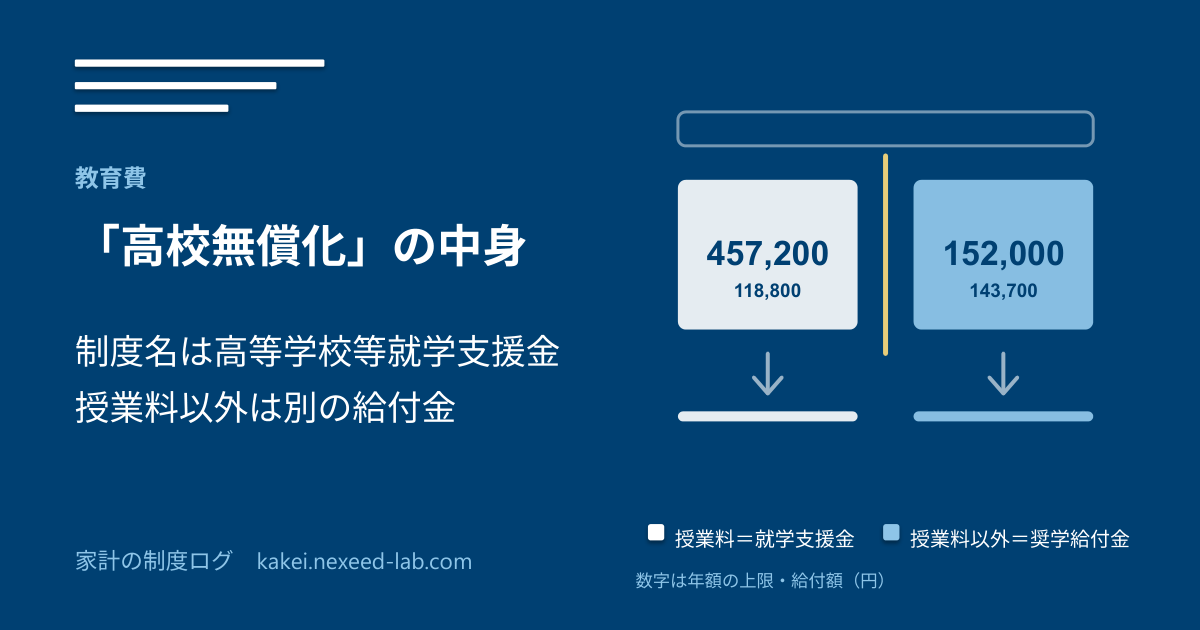
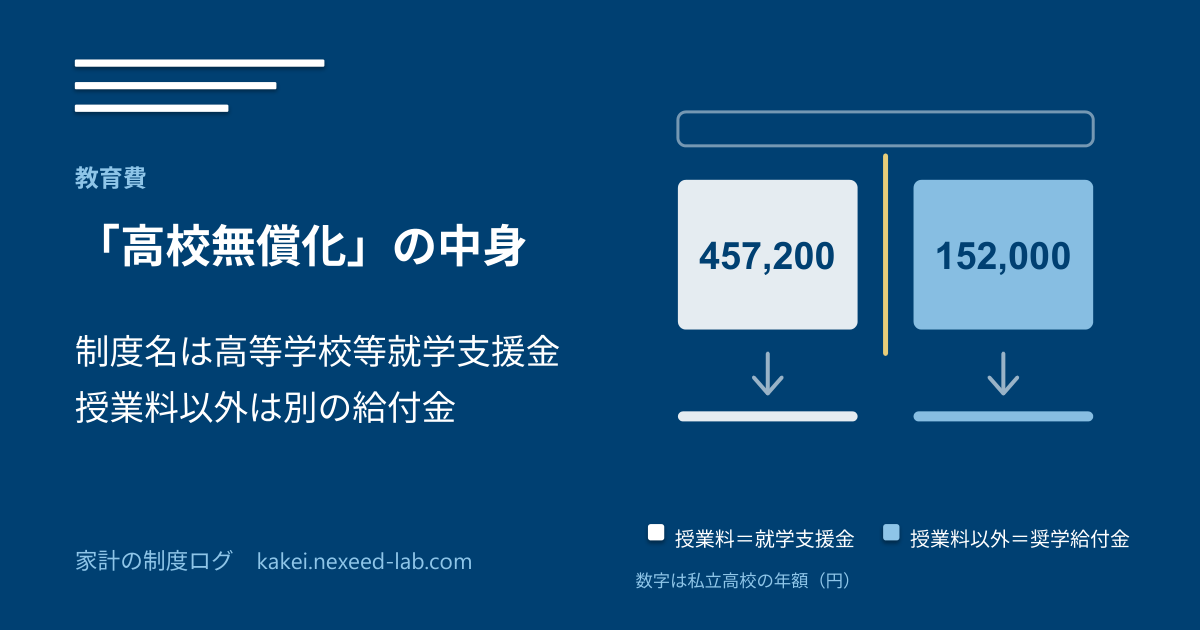
画像の数字を1つずつにした（何の数字か分からない指摘への対応）
- 高校無償化: 箱に私立と公立を上下に並べていたのを私立だけに。注記も「私立高校の年額」へ
- ふるさと納税: 容器の底の「2,000」を外した（図だけでは意味が伝わらないため）
- CLAUDE.md に「1つの図形に数字は1つ」「説明できない数字は図から外す」を追記
- 本番へデプロイし、4枚のPNGが手元とバイト数一致することを確認

Changed region(s): [[0.7708, 0.3619, 0.8942, 0.4825], [0.5858, 0.3619, 0.7092, 0.4825], [0.555, 0.9048, 0.74, 0.9349]]

diff --git a/tools/article-images/build.py b/tools/article-images/build.py
@@ -71,7 +71,7 @@ SLIDES = [
         "title_size": 34,
         "subtitle": "決めているのは\n総務省の3本の計算式",
         "legend": [("(1) 所得税", WHITE), ("(2)(3) 住民税", AZURE)],
-        "note": "底＝自己負担2,000円／破線＝住民税所得割額の20％",
+        "note": "破線＝住民税所得割額の20％の天井",
     },
     {
         "svg": "koukou-mushouka.svg",
@@ -81,7 +81,7 @@ SLIDES = [
         "title_size": 34,
         "subtitle": "制度名は高等学校等就学支援金\n授業料以外は別の給付金",
         "legend": [("授業料＝就学支援金", WHITE), ("授業料以外＝奨学給付金", AZURE)],
-        "note": "数字は年額の上限・給付額（円）",
+        "note": "数字は私立高校の年額（円）",
     },
     {
         # 記事に eyecatch が無いときの既定の og:image（site.json の defaultOgImage）

diff --git a/HANDOFF.md b/HANDOFF.md
@@ -186,6 +186,23 @@ python tools/article-images/build.py
 記事画像 `koukou-mushouka.png` も同じ手順で作った。執筆中に `assertNoRawEmphasis` が3か所、
 `assertEyecatch` は通過（front matter に書いてから画像を作ったため）。
 
+### 8. 画像の数字を1つずつにした（**指摘を受けて修正**）
+
+高校無償化の画像で、1つの箱に **457,200（私立）と 118,800（公立）を上下に並べていた**ため、
+どちらが何の数字か画像だけでは分からなかった。**私立の額だけ**にして、凡例の注記を
+「数字は私立高校の年額（円）」に変えた。
+
+同じ観点でふるさと納税の画像も見直し、容器の底に置いていた **「2,000」を外した**
+（自己負担2,000円の話は本文が持つ。図の底の線に数字を添えただけでは意味が伝わらない）。
+注記は「破線＝住民税所得割額の20％の天井」にした。
+
+扶養の壁の画像は1本の壁に数字1つで、凡例（白＝税／青＝社会保険）と単位（万円）が付いているので変更なし。
+
+**画像に数字を置くときの決まり**（`CLAUDE.md` にも書いた）:
+
+- **1つの図形に数字は1つ。** 2つ並べると、画像だけでは何の数字か分からなくなる
+- 単位と、何の額なのかは**必ず凡例か注記で示す**。図の中に置いた数字を説明なしにしない
+
 ## 検証済みの事実（実際に画面に出した出力）
 
 ```

diff --git a/CLAUDE.md b/CLAUDE.md
@@ -94,6 +94,10 @@ python tools/article-images/build.py
   背景 `--navy` `#014172` ／ アクセント `#8ec5e8`（`--link` を紺の上で読める明るさに）／
   注意 `--warn-line` `#e7cd7a`。**画面と画像で別々に色を決めない**
 - **PNG を手で描き換えない。** 正は SVG と `.pptx`。PNG は `build.py` の出力
+- **1つの図形に数字は1つ。** 2つ並べると、画像だけでは何の数字か分からなくなる
+  （公立と私立の額を上下に並べて指摘を受けた）
+- **図の中の数字は、単位と何の額なのかを必ず凡例か注記で示す。**
+  説明できない数字は図から外す（本文が持てばよい）
 
 ## 検証
 
